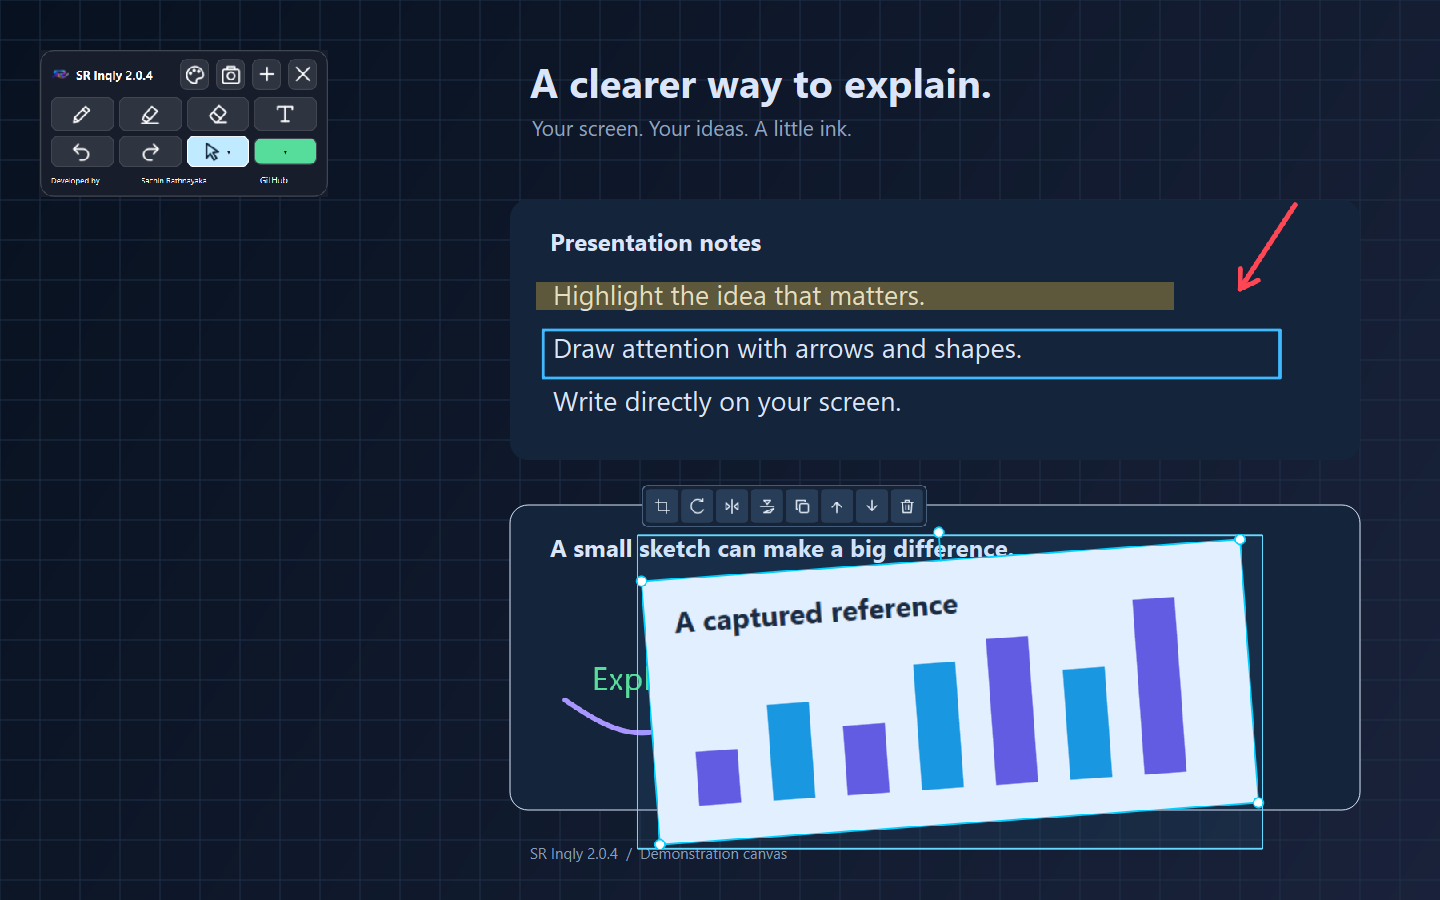
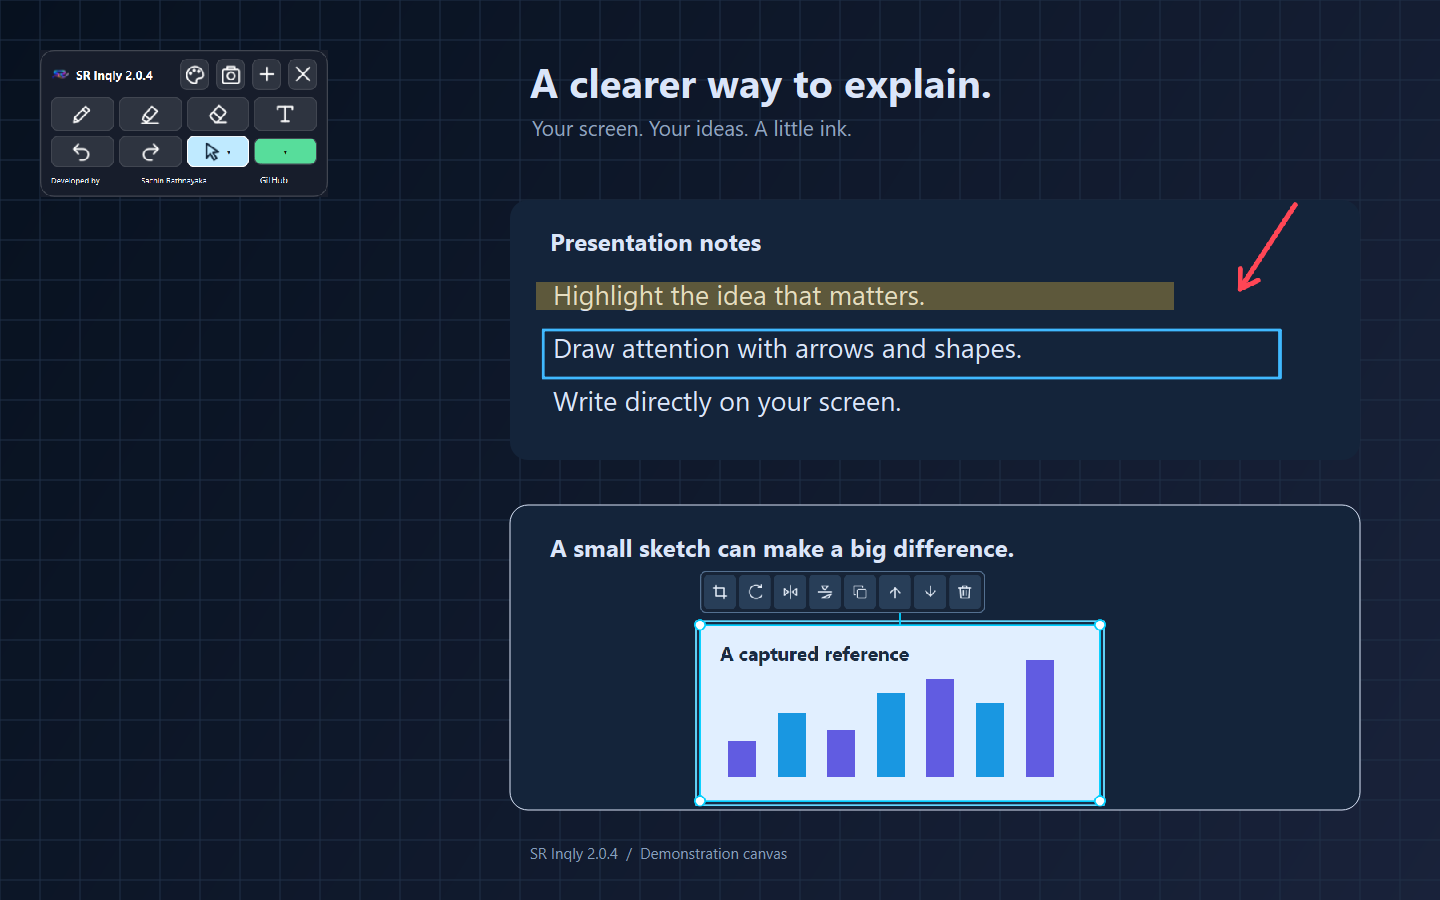
Fix Fetcher screenshot layout for clear documentation

Changed region(s): [[0.375, 0.5289, 0.875, 0.9644]]

diff --git a/scripts/capture_screenshots.py b/scripts/capture_screenshots.py
@@ -84,7 +84,9 @@ try:
     for i,height in enumerate((45,80,58,105,122,92,146)):
         p.fillRect(35+i*62,190-height,35,height,QColor('#1595df' if i%2 else '#6355df'))
     p.end()
-    doc.marks.append(Mark('image',[(650,560)],image_id=IMAGES.add(captured),image_size=(600,264),rotation=-4))
+    # Show image controls in their own space without obscuring demonstration text.
+    doc.marks = doc.marks[:3]
+    doc.marks.append(Mark('image',[(700,625)],image_id=IMAGES.add(captured),image_size=(400,176),rotation=0))
     t.choose_tool('select');o.selected={len(doc.marks)-1};o.changed.emit()
     screenshot('image-fetcher.png')
     splash=Splash();splash.show();splash.progress(100,'Ready')
